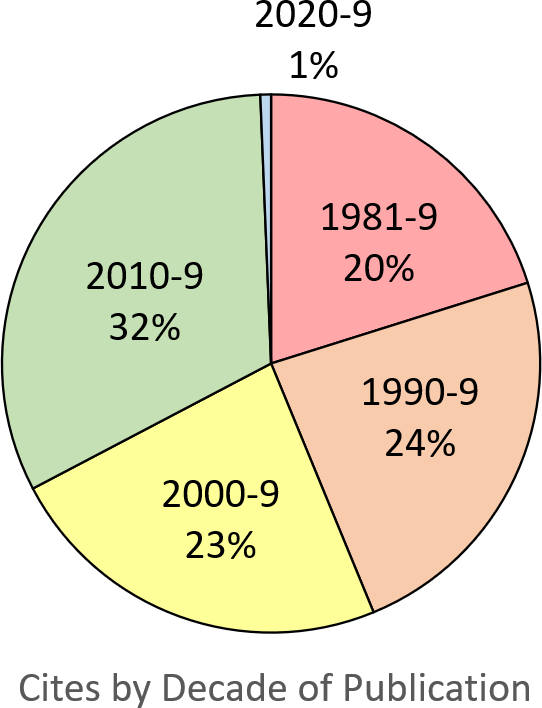
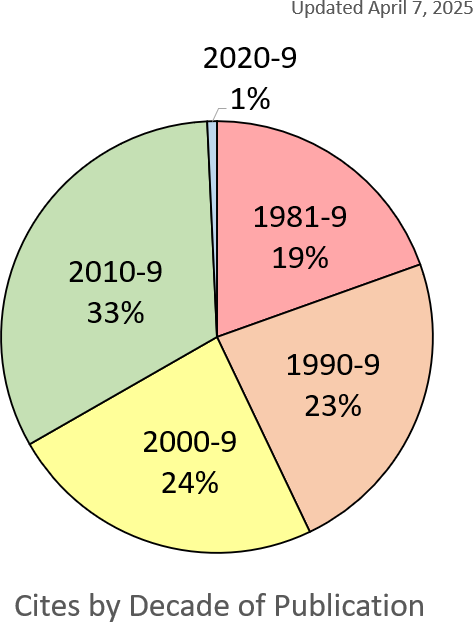
Update citation analysis

diff --git a/numbers.html b/numbers.html
@@ -34,7 +34,7 @@
       academic publications by quantifying, in various ways, the number of
       <a href="https://en.wikipedia.org/wiki/Citation">citations</a>
       that they generate.
-      The following were measured on October 30, 2024 using
+      The following were measured on April 7, 2025 using
       <a href="https://scholar.google.com/citations?user=8ZpdXNcAAAAJ">Google Scholar</a>.
     </p>
 
@@ -42,8 +42,8 @@
       <dt><em>h</em>-index</dt>
       <dd>
         My
-        <a href="https://en.wikipedia.org/wiki/H-index"><em>h</em>-index</a> is 31,
-        which means that 31 of my papers have been cited 31 or more times.
+        <a href="https://en.wikipedia.org/wiki/H-index"><em>h</em>-index</a> is 32,
+        which means that 32 of my papers have been cited 32 or more times.
       </dd>
 
       <dt style="padding-top: 4px;"><em>i10</em>-index</dt>
@@ -54,7 +54,7 @@
     </dl>
 
     <p>
-      The following were measured on October 30, 2024 using
+      The following were measured on  April 7, 2025 using
       <a href="https://harzing.com/resources/publish-or-perish">
         Harzing's
         Publish or Perish
@@ -82,7 +82,7 @@
         is a version of the <em>h</em>-index that normalizes for
         number of co-authors per paper so that the impact of scholars in different
         disciplines can be compared.
-        My <em>hI,norm</em>-index is 26. 
+        My <em>hI,norm</em>-index is 25. 
       </dd>
 
       <dt style="padding-top: 4px;"><em>hI,annual</em>-index</dt>
@@ -91,10 +91,10 @@
         The
         <a href="https://harzing.com/resources/publish-or-perish/tutorial/metrics/hi-norm-and-hia"><em>hI,annual</em>-index</a>
         is a version of the <em>h</em>-index that normalizes for length of career.
-        My <em>hI,annual</em>-index is 0.6,
+        My <em>hI,annual</em>-index is 0.57,
         which means that I have published an "impactful" paper (defined
         to be those that have accumulated enough citations to be included in
-        my <em>h</em>-index) about every 1.7 years on average.
+        my <em>h</em>-index) about every 1.75 years on average.
       </dd>
     </dl>
   </div>
@@ -257,7 +257,7 @@
   <div class=updateinfo>
     <p>
       Created August 5, 2015.
-      Last updated October 30, 2024.
+      Last updated April 7, 2025.
     </p>
   </div>
 </body>

diff --git a/cites/index.html b/cites/index.html
@@ -311,7 +311,7 @@
     <div class=updateinfo>
       <p>
         Created December 1, 2022.
-        Last updated October 30, 2024.
+        Last updated April 7, 2025.
       </p>
 
     </div>
